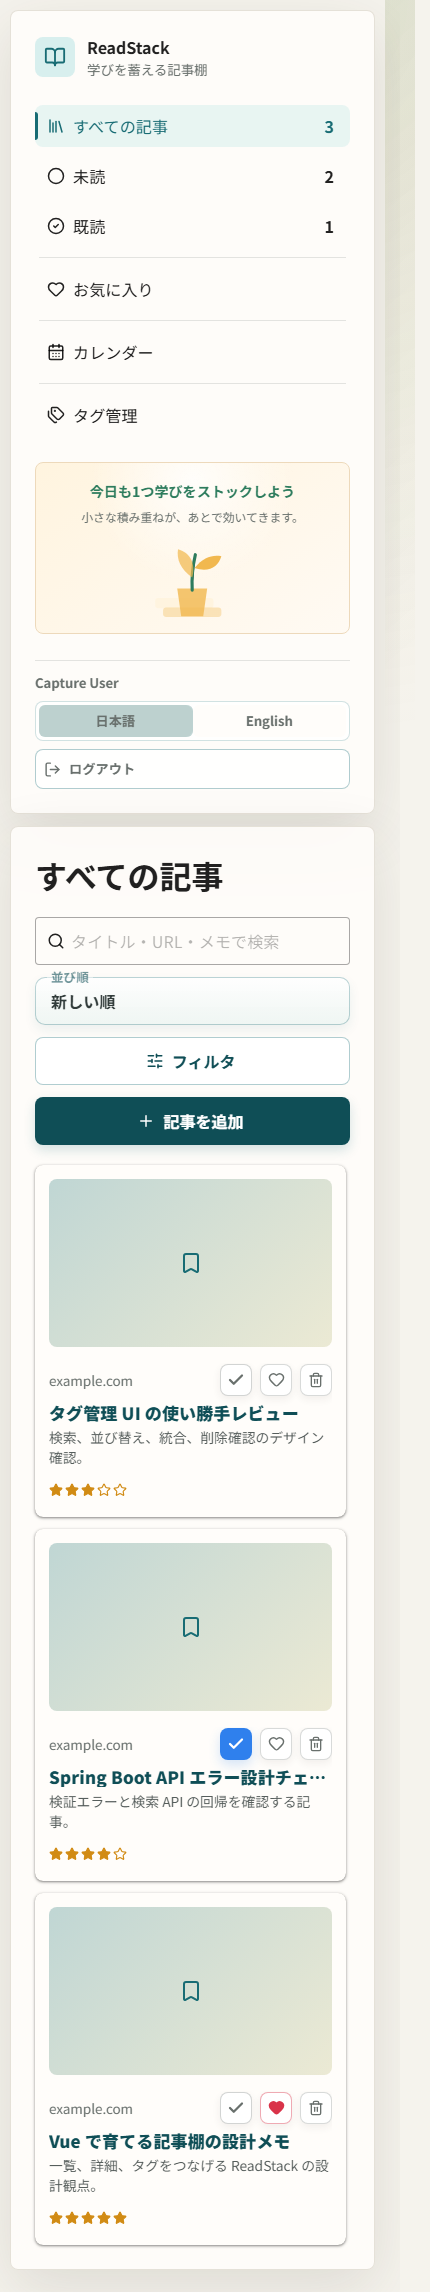
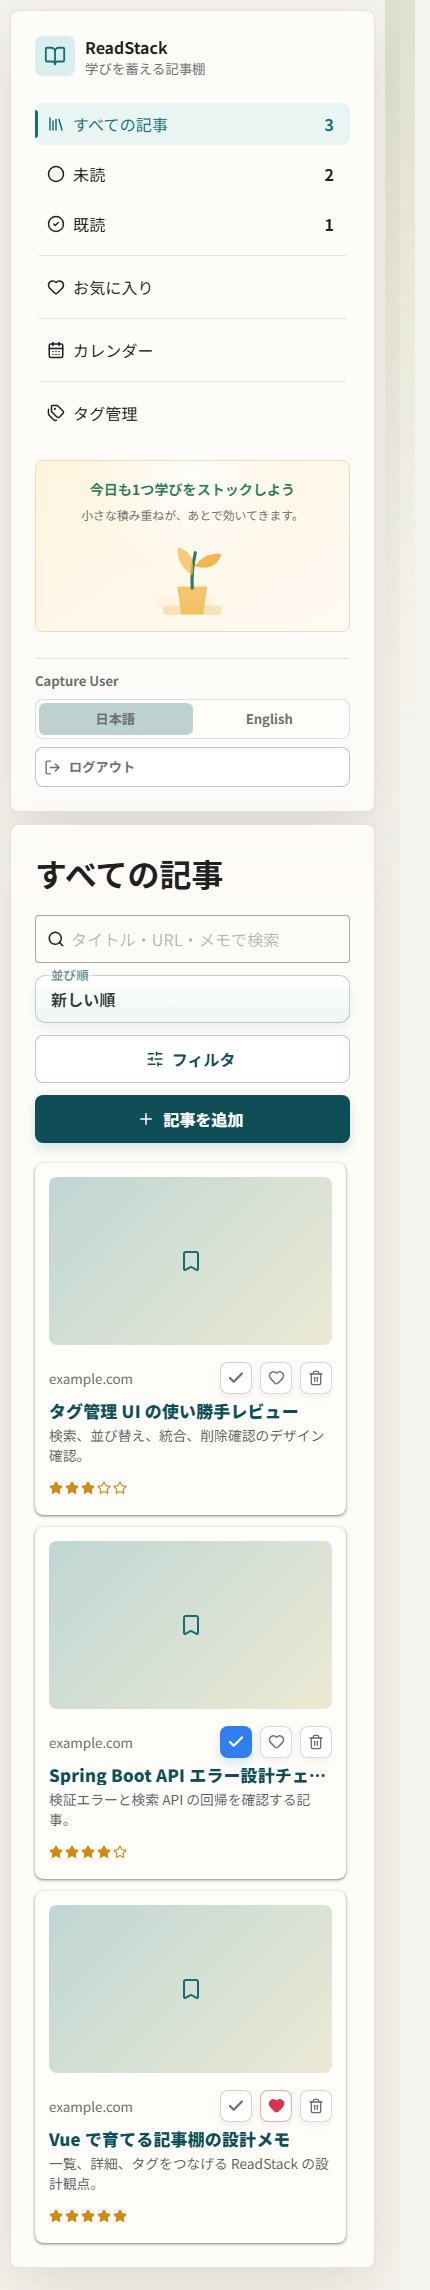
feat: 左サイドバーのブランドコピー表示と幅を調整し、デザインの整合性を向上

diff --git a/frontend/src/styles/layout.css b/frontend/src/styles/layout.css
@@ -1,6 +1,6 @@
 .app-shell {
   display: grid;
-  grid-template-columns: 248px minmax(0, 1fr);
+  grid-template-columns: 304px minmax(0, 1fr);
   gap: 20px;
   height: 100vh;
   min-height: 0;
@@ -29,7 +29,7 @@
 
 .brand {
   display: flex;
-  gap: 12px;
+  gap: 10px;
   align-items: center;
 }
 
@@ -46,6 +46,17 @@
 .brand strong,
 .brand span {
   display: block;
+}
+
+.brand-copy {
+  min-width: 0;
+}
+
+.brand-copy span {
+  overflow: visible;
+  font-size: 0.78rem;
+  line-height: 1.35;
+  white-space: nowrap;
 }
 
 .brand span,

diff --git a/frontend/src/features/articles/components/AppSidebar.vue b/frontend/src/features/articles/components/AppSidebar.vue
@@ -56,7 +56,7 @@ function changeLocale(value: unknown): void {
       <div class="brand-mark">
         <BookOpen :size="22" />
       </div>
-      <div>
+      <div class="brand-copy">
         <strong>{{ t("common.appName") }}</strong>
         <span>{{ t("common.appTagline") }}</span>
       </div>

diff --git a/frontend/src/styles/responsive.css b/frontend/src/styles/responsive.css
@@ -1,6 +1,6 @@
 @media (max-width: 1180px) {
   .app-shell {
-    grid-template-columns: 220px minmax(0, 1fr);
+    grid-template-columns: 276px minmax(0, 1fr);
   }
 
   .detail-header a {

diff --git a/docs/design.md b/docs/design.md
@@ -34,6 +34,8 @@ ReadStackのデザインは、シンプルで集中しやすいUIを目指しま
 
 - 左サイドバー: ステータス / お気に入り / カレンダーのナビゲーション
 - アプリのファビコンは左サイドバー左上のブランドマークに合わせる
+- 左サイドバーのブランドコピーは日本語 / English ともに1行で表示し、アプリ名の下で改行による高さ揺れを起こさない
+- デスクトップの左サイドバー幅は英語のブランドコピー、長いナビゲーション名、言語切替、ログアウトボタンが見切れない幅を確保する
 - 左サイドバーの選択表示は現在表示中の画面を優先し、カレンダー画面では未読 / 既読 / お気に入りなど一覧フィルタの選択色を出さない
 - 左サイドバーと中央メインの上下 padding は揃え、画面内の開始位置を整列させる
 - 左サイドバー下部: 画像付きの学習継続メッセージ
